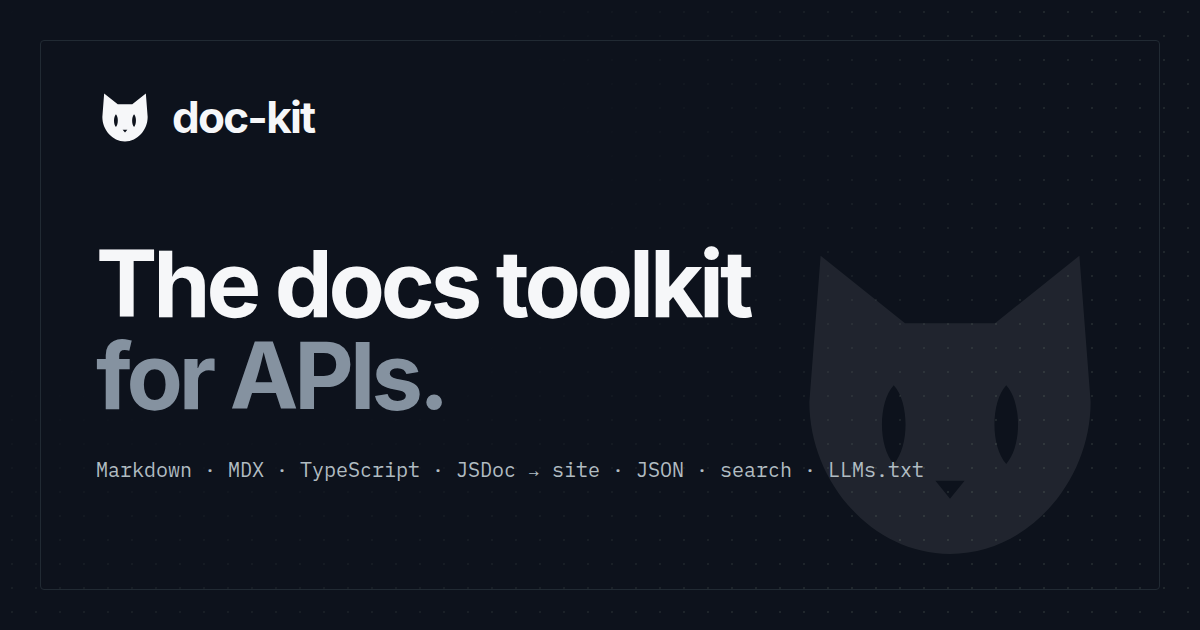
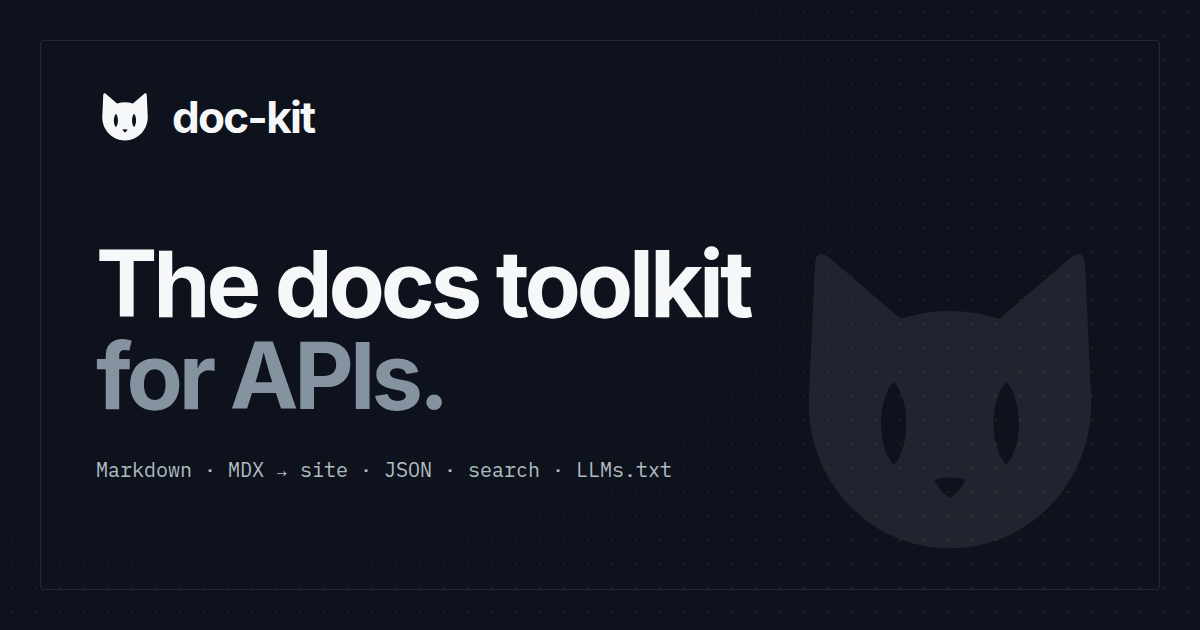
feat(www): polish Kit's head
A domed brow between the ears instead of a flat one, softer ear tips,
fuller cheeks and a rounder jaw and nose, in the mark, the favicon, the
app icon, the hero and the social card. The social card lists only the
inputs doc-kit reads itself.

Assisted-by: Claude Opus 5.5 <noreply@anthropic.com>

Changed region(s): [[0.2467, 0.7238, 0.7708, 0.7841], [0.0925, 0.1508, 0.1233, 0.181]]

diff --git a/www/og/og.html b/www/og/og.html
@@ -94,7 +94,7 @@
       <div class="frame"></div>
       <svg class="cat" viewBox="0 0 32 32">
         <path
-          d="M4.5 3 12 9h8l7.5-6 1 13c0 7-5.5 13.5-12.5 13.5S3.5 23 3.5 16ZM11 14.5c1.4 1.5 1.4 5.5 0 7-1.4-1.5-1.4-5.5 0-7Zm10 0c1.4 1.5 1.4 5.5 0 7-1.4-1.5-1.4-5.5 0-7ZM14.7 23h2.6L16 24.6Z"
+          d="M5.2 3.1 11.6 8.6Q16 7.2 20.4 8.6L26.8 3.1Q27.9 2.4 28 3.7L28.5 14.8C29.2 22.6 23.4 29 16 29S2.8 22.6 3.5 14.8L4 3.7Q4.1 2.4 5.2 3.1ZM11 14.2c1.5 1.6 1.5 5.8 0 7.4-1.5-1.6-1.5-5.8 0-7.4Zm10 0c1.5 1.6 1.5 5.8 0 7.4-1.5-1.6-1.5-5.8 0-7.4ZM14.6 22.9Q16 22.5 17.4 22.9Q16.9 24 16 24.5Q15.1 24 14.6 22.9Z"
           fill="#f6f7f9"
           fill-rule="evenodd"
         />
@@ -103,7 +103,7 @@
         <div class="brand">
           <svg viewBox="0 0 32 32">
             <path
-              d="M4.5 3 12 9h8l7.5-6 1 13c0 7-5.5 13.5-12.5 13.5S3.5 23 3.5 16ZM11 14.5c1.4 1.5 1.4 5.5 0 7-1.4-1.5-1.4-5.5 0-7Zm10 0c1.4 1.5 1.4 5.5 0 7-1.4-1.5-1.4-5.5 0-7ZM14.7 23h2.6L16 24.6Z"
+              d="M5.2 3.1 11.6 8.6Q16 7.2 20.4 8.6L26.8 3.1Q27.9 2.4 28 3.7L28.5 14.8C29.2 22.6 23.4 29 16 29S2.8 22.6 3.5 14.8L4 3.7Q4.1 2.4 5.2 3.1ZM11 14.2c1.5 1.6 1.5 5.8 0 7.4-1.5-1.6-1.5-5.8 0-7.4Zm10 0c1.5 1.6 1.5 5.8 0 7.4-1.5-1.6-1.5-5.8 0-7.4ZM14.6 22.9Q16 22.5 17.4 22.9Q16.9 24 16 24.5Q15.1 24 14.6 22.9Z"
               fill="#f6f7f9"
               fill-rule="evenodd"
             />
@@ -112,7 +112,7 @@
         </div>
         <h1>The docs toolkit<br /><span>for APIs.</span></h1>
         <p>
-          Markdown · MDX · TypeScript · JSDoc → site · JSON · search · LLMs.txt
+          Markdown · MDX → site · JSON · search · LLMs.txt
         </p>
       </div>
     </div>

diff --git a/www/theme/components/Brand.jsx b/www/theme/components/Brand.jsx
@@ -6,9 +6,9 @@
  * out of it in the logo, drawn over it in the mascot.
  */
 export const CAT = {
-  head: 'M4.5 3 12 9h8l7.5-6 1 13c0 7-5.5 13.5-12.5 13.5S3.5 23 3.5 16Z',
-  eyes: 'M11 14.5c1.4 1.5 1.4 5.5 0 7-1.4-1.5-1.4-5.5 0-7Zm10 0c1.4 1.5 1.4 5.5 0 7-1.4-1.5-1.4-5.5 0-7Z',
-  nose: 'M14.7 23h2.6L16 24.6Z',
+  head: 'M5.2 3.1 11.6 8.6Q16 7.2 20.4 8.6L26.8 3.1Q27.9 2.4 28 3.7L28.5 14.8C29.2 22.6 23.4 29 16 29S2.8 22.6 3.5 14.8L4 3.7Q4.1 2.4 5.2 3.1Z',
+  eyes: 'M11 14.2c1.5 1.6 1.5 5.8 0 7.4-1.5-1.6-1.5-5.8 0-7.4Zm10 0c1.5 1.6 1.5 5.8 0 7.4-1.5-1.6-1.5-5.8 0-7.4Z',
+  nose: 'M14.6 22.9Q16 22.5 17.4 22.9Q16.9 24 16 24.5Q15.1 24 14.6 22.9Z',
 };
 
 /**
